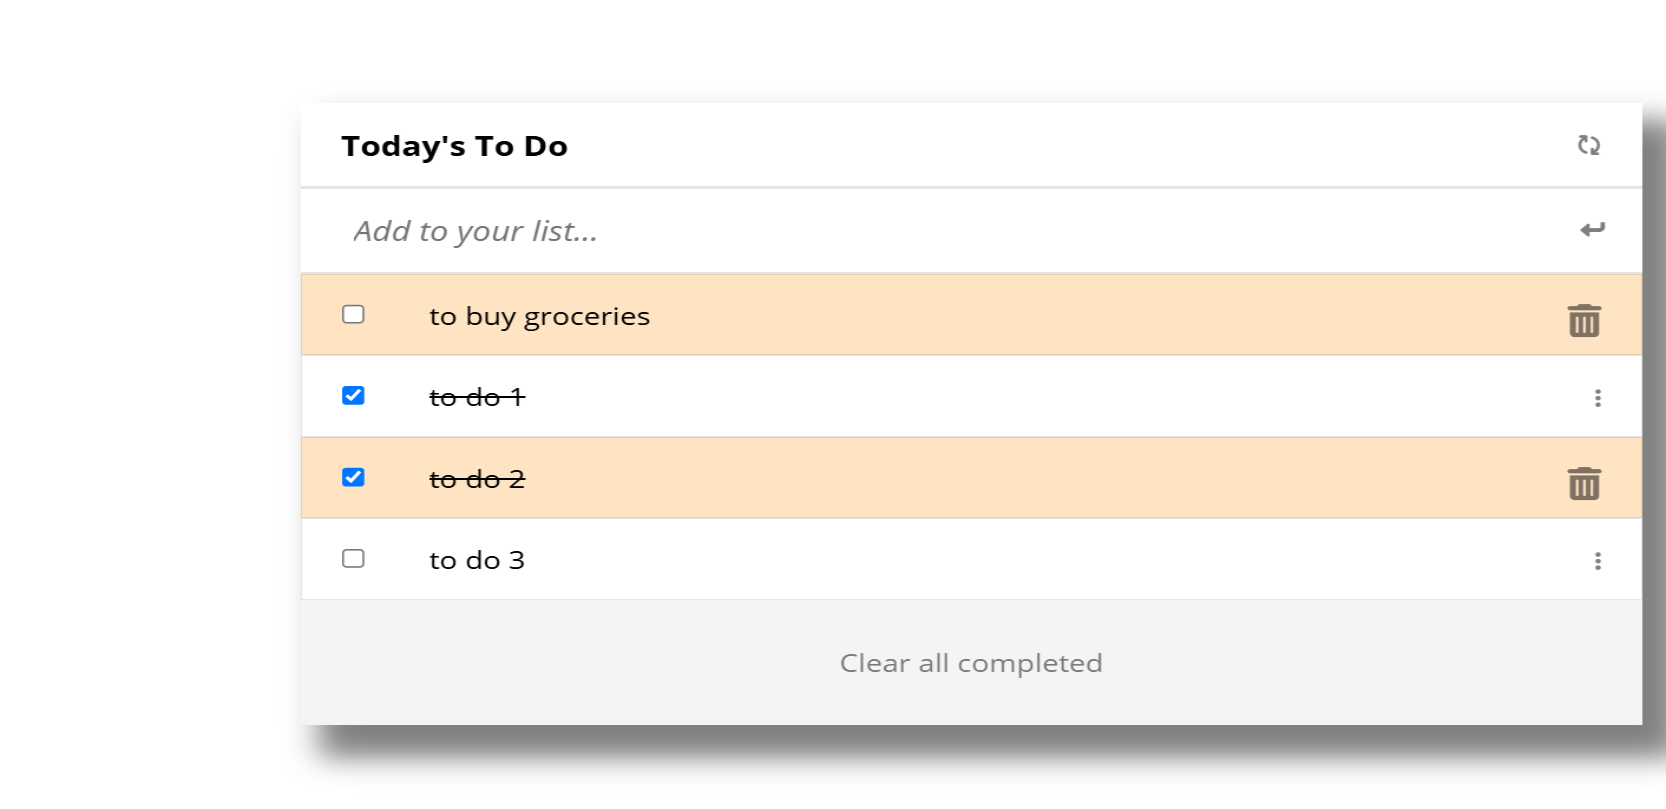
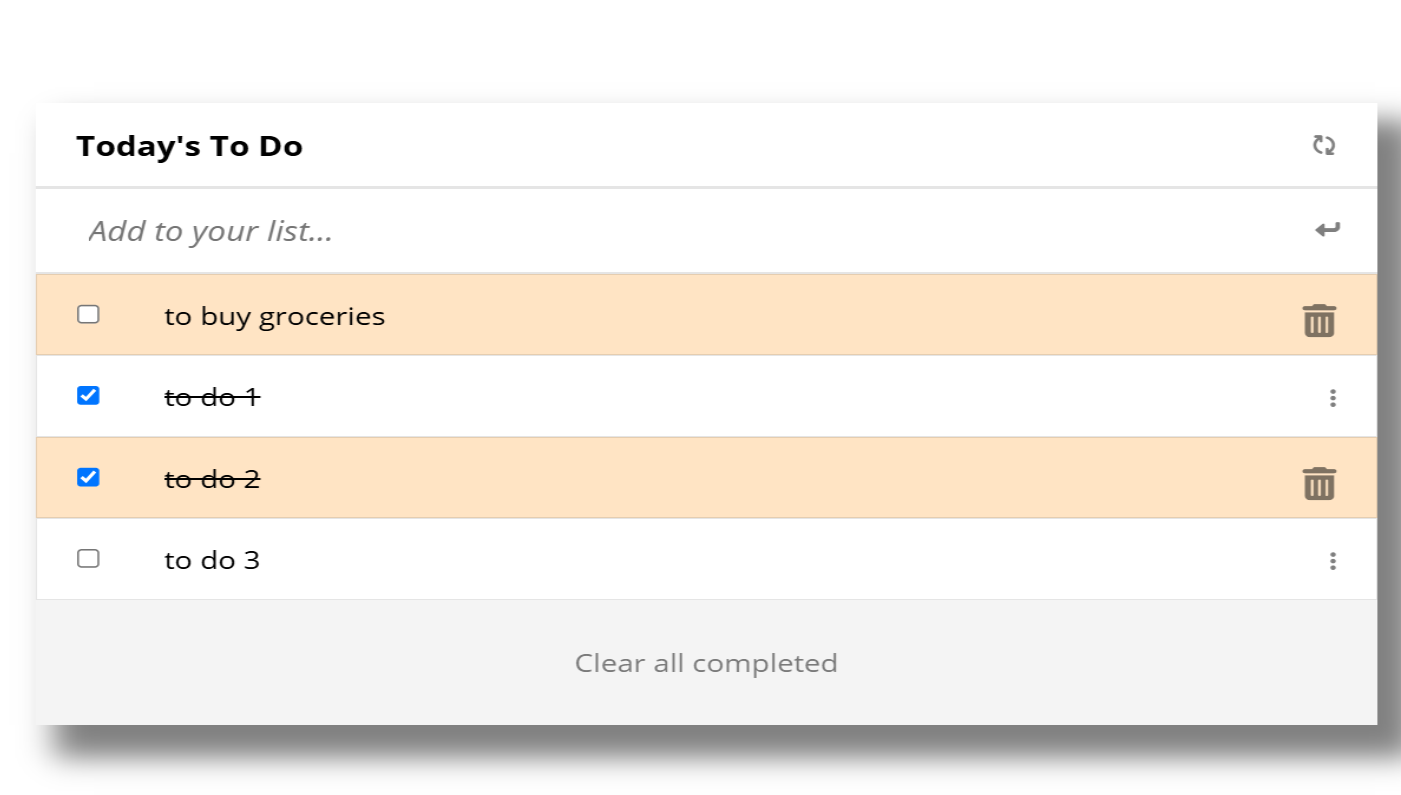
Update img

diff --git a/src/main.js b/src/main.js
@@ -69,7 +69,7 @@ const data = [
   {
     name: 'AwesomeBooks',
     description: 'AwesomeBooks is an app that allows users to add, remove, and store books in their personal collection. Built using ES6 JavaScript, the app provides a simple and elegant way to manage reading lists, store book details, and supports local storage for persistent data.',
-    img: 'project-img/awesomeBook.png',
+    img: '/project-img/awesomeBook.png',
     firstlineTitle: 'AwesomeBooks',
     secondlineTitle: 'Manage Book Collection',
     languages: ['JavaScript', 'HTML', 'CSS'],
@@ -91,7 +91,7 @@ const data = [
   {
     name: 'StreamHub',
     description: 'StreamHub is a web app designed for users to search and interact with movies and TV shows. It integrates APIs for fetching movie data and user interactions like likes, comments, and reservations. The app offers a user-friendly interface with optimized performance, interactive popups, counter functionality, and Jest unit testing to ensure reliability.',
-    img: 'public/project-img/streamHub.png',
+    img: '/project-img/streamHub.png',
     firstlineTitle: 'StreamHub',
     secondlineTitle: 'Find Movies Easily',
     languages: ['JavaScript', 'HTML', 'CSS'],
@@ -102,7 +102,7 @@ const data = [
   {
     name: 'InterArtction',
     description: 'The Interdisciplinary Exhibition, titled InterArtction, is an innovative and transformative event that brings together professionals, experts, and enthusiasts from various fields to explore the intersection of art and technology. This event will be held in different cities every two years, inviting organizations and individuals who are engaged in the world of open content, free software, open knowledge, and other related areas. We hope to foster collaboration on shared projects that advance the cause of the Commons, free culture, and open knowledge.',
-    img: '/public/project-img/interArtction.png',
+    img: '/project-img/interArtction.png',
     firstlineTitle: 'InterArtction',
     secondlineTitle: 'Exploring Art & Technology',
     languages: ['HTML', 'CSS', 'JavaScript'],

diff --git a/index.html b/index.html
@@ -19,9 +19,9 @@
                 </ul>
                 <div class="mobile-menu disable-scroll">
                     <ul>
-                        <li><a href="#portfolio-section" onclick="closeMenu()">Portfolio</a></li>
-                        <li><a href="#aboutme-section" onclick="closeMenu()">About</a></li>
-                        <li><a href="#contact-section" onclick="closeMenu()">Contact</a></li>
+                        <li><a href="#portfolio-section" class="menu-item">Portfolio</a></li>
+                        <li><a href="#aboutme-section" class="menu-item">About</a></li>
+                        <li><a href="#contact-section" class="menu-item">Contact</a></li>
                     </ul>
                 </div>
             </div>
@@ -93,7 +93,7 @@
                 <span>don’t hesitate to contact me.</span>
             </p>
 
-            <a href="public/resume/pi_resume.pdf" download="ShinnThantSwamYe(Pi)_Resume" target="_blank">
+            <a href="/resume/pi_resume.pdf" download="ShinnThantSwamYe(Pi)_Resume" target="_blank">
                 <button class="btn-project">Get my resume</button>
             </a>
               
@@ -197,7 +197,7 @@
     </section>
 
     <!-- <script src="popup.js"></script> -->
-    <script  src="src/form.js"></script>
+    <script type="module" src="src/form.js"></script>
     <script type="module" src="src/main.js"></script>
   </body>
 </html>

diff --git a/src/style.css b/src/style.css
@@ -553,7 +553,7 @@ textarea {
 }
 
 .contact-image {
-  background-image: url(images/form-bg.svg);
+  background-image: url(/images/form-bg.svg);
   background-size: 20%;
   background-repeat: no-repeat;
   background-position: right 0;
@@ -823,7 +823,7 @@ textarea {
 
   /* About Me */
   .abt-me {
-    background-image: url(/Icon/illustration-about-me-2-desktop.png), url(/Icon/illustration-about\ me-1-desktop.png);
+    background-image: url(/Icon/illustration-about-me-2-desktop.png), url(/Icon/illustration-about-me-1-desktop.png);
     background-size: 18%, 18%;
     background-position: 0% 85%, 100% 0%;
     margin-top: 5%;
